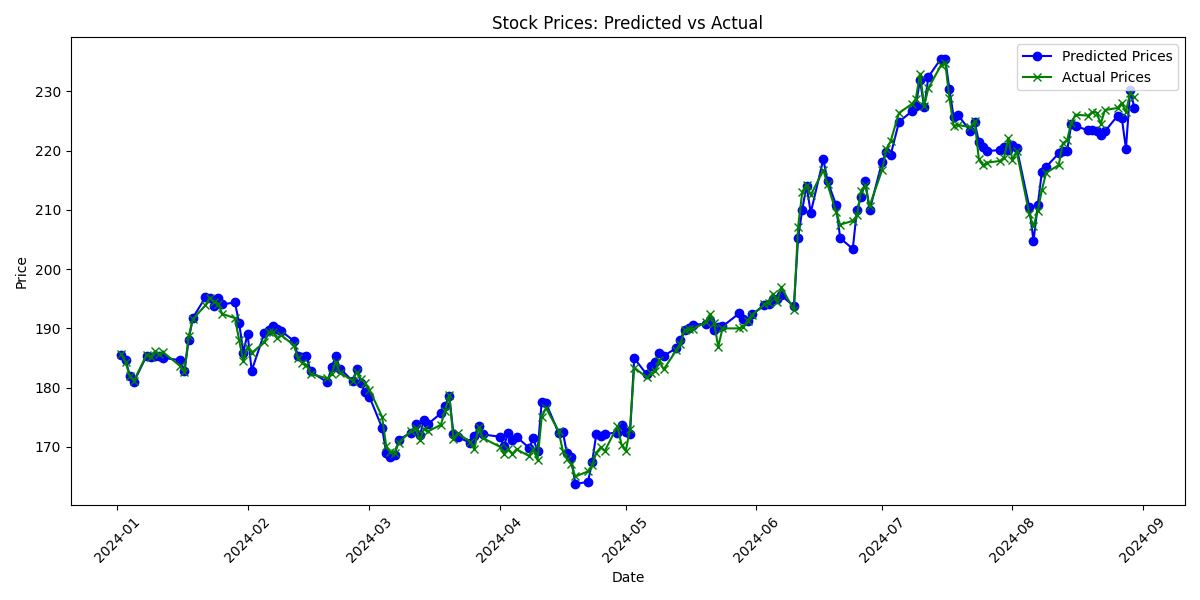
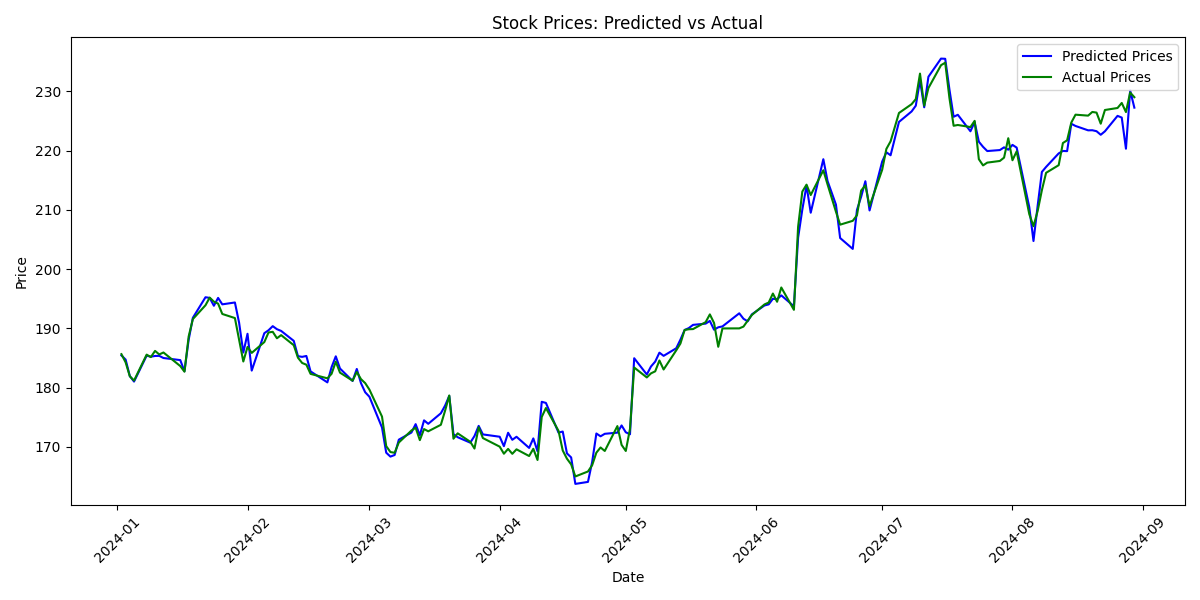
Update BUG fixes

diff --git a/app.py b/app.py
@@ -88,8 +88,8 @@ def fetch_stock_data(symbol):
 
 def plot_prices(dates, predicted_prices, actual_prices):
     plt.figure(figsize=(12, 6))
-    plt.plot(dates, predicted_prices, label='Predicted Prices', color='blue', marker='o')
-    plt.plot(dates, actual_prices, label='Actual Prices', color='green', marker='x')
+    plt.plot(dates, predicted_prices, label='Predicted Prices', color='blue')
+    plt.plot(dates, actual_prices, label='Actual Prices', color='green')
     plt.title('Stock Prices: Predicted vs Actual')
     plt.xlabel('Date')
     plt.ylabel('Price')
@@ -129,14 +129,14 @@ def index():
     if request.method == 'POST':
         symbol = request.form['symbol'].upper()
         future_date_str = request.form.get('future_date', '')
-
+        year_prv = datetime.now().year-1
         # Fetch the stock data from Alpha Vantage
         df = fetch_stock_data(symbol)
 
         if df is not None:
             # Apply technical indicators
             df = add_technical_indicators(df)
-            df2 = df[df.index <= '2023-12-29']  # Use data until 2023-12-29
+            df2 = df[df.index <= f'{year_prv}-12-29']  # Use data until 2023-12-29
 
             # Train the model
             model, scaler = train_random_forest(df2)
